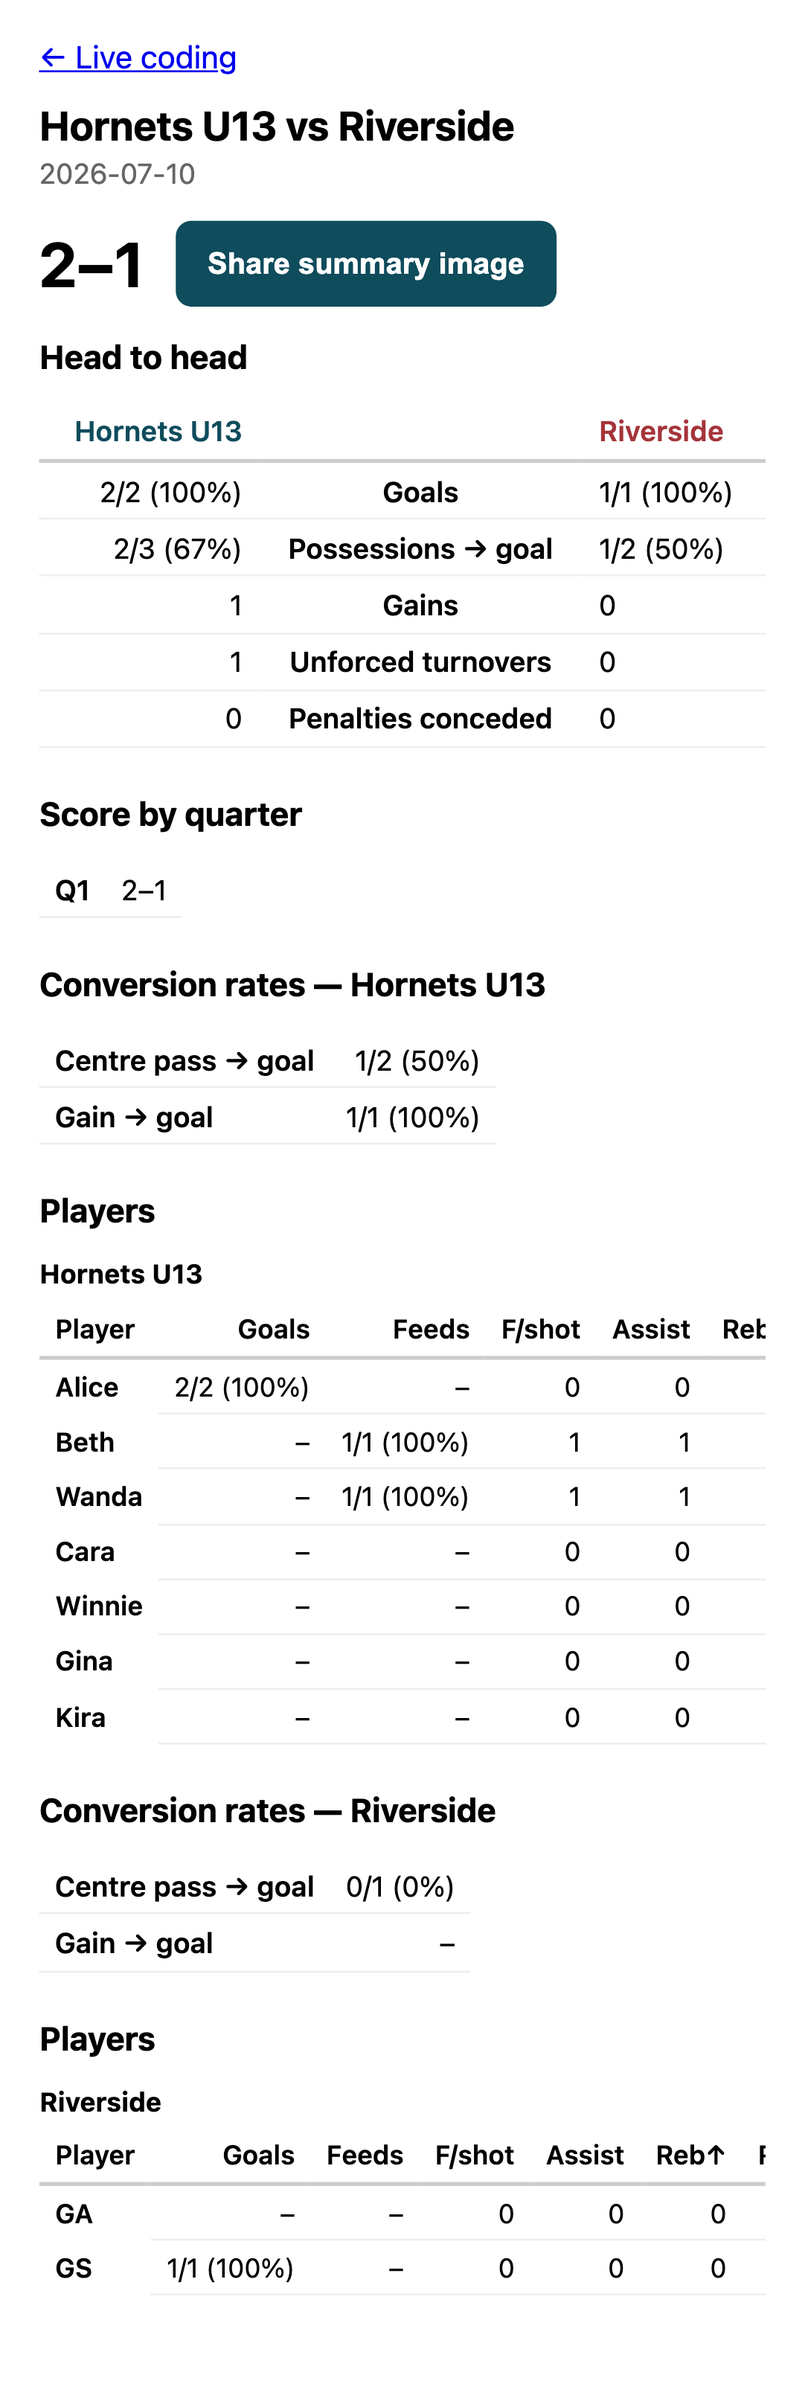
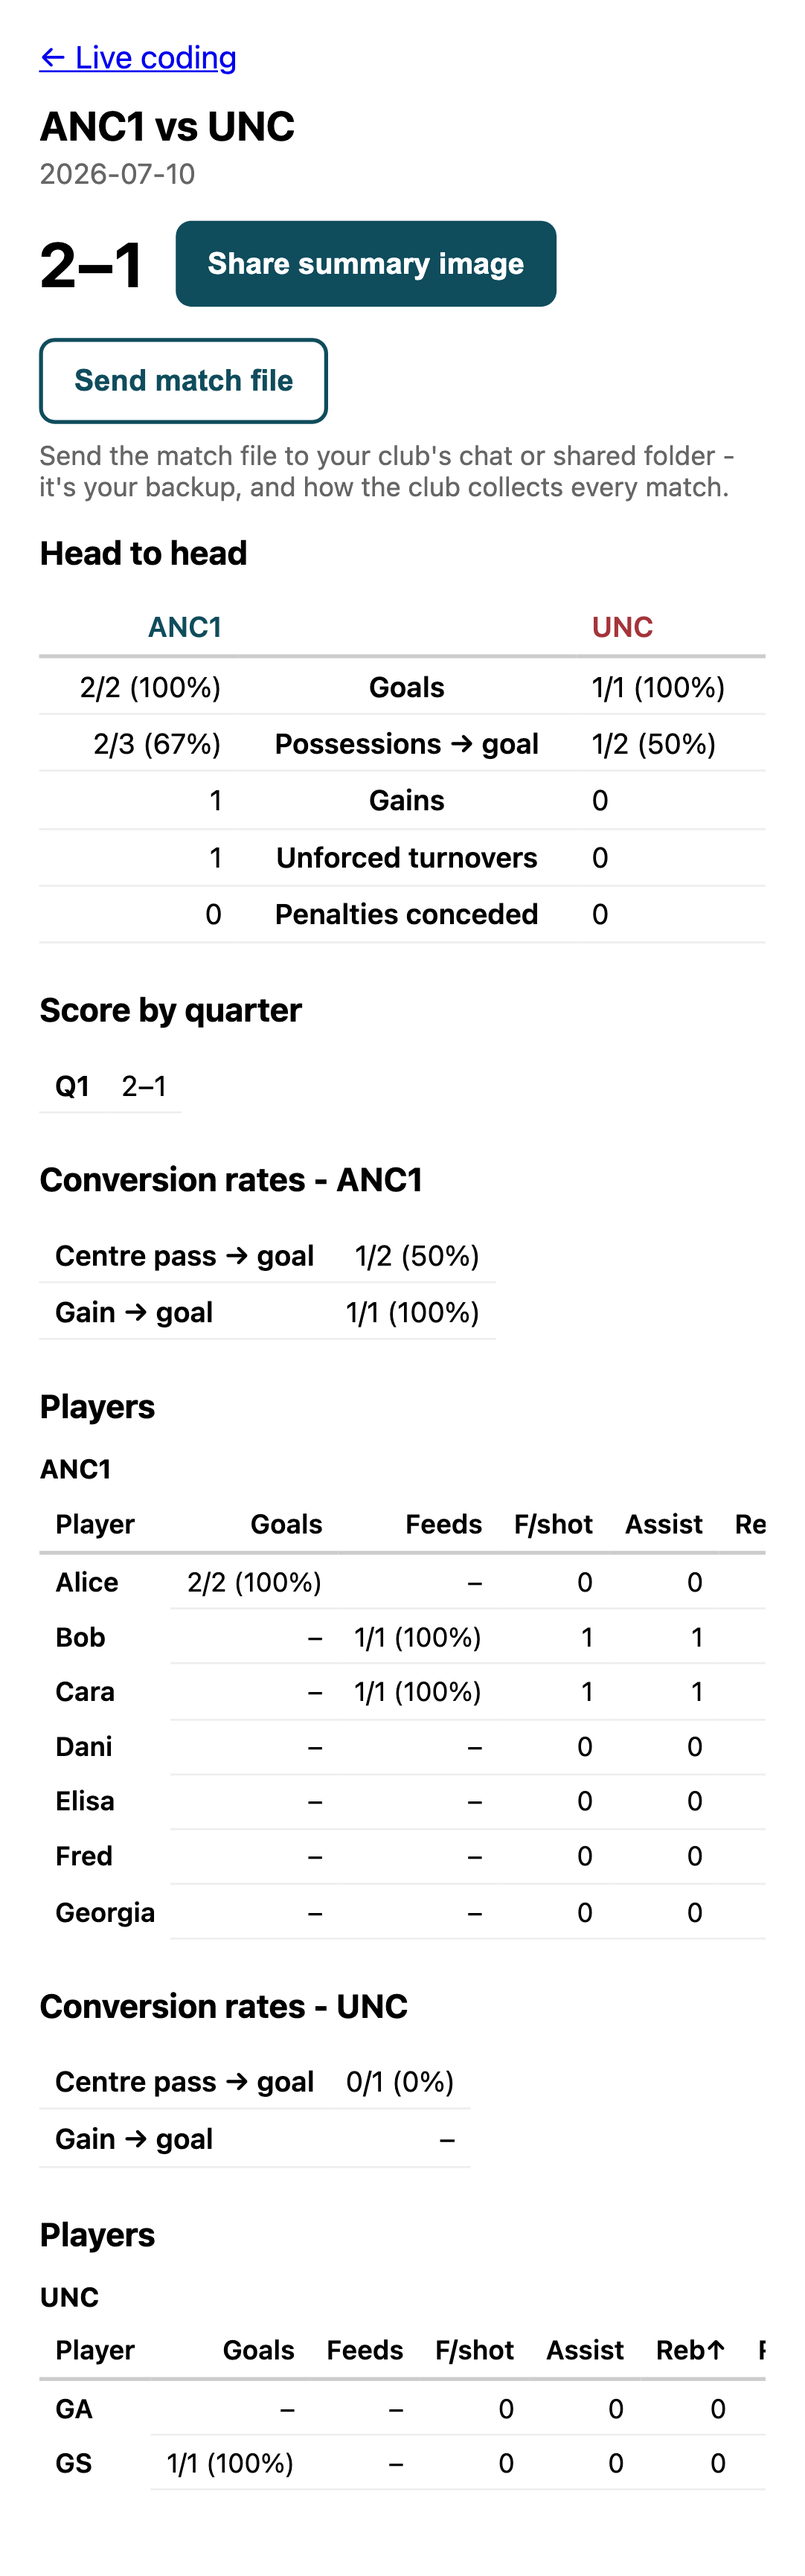
Update quickstart guide

diff --git a/web/tests/screenshots.spec.ts b/web/tests/screenshots.spec.ts
@@ -10,12 +10,12 @@ const IMG = "../docs/img";
 
 const ROSTER: Record<string, string> = {
   GS: "Alice",
-  GA: "Beth",
-  WA: "Wanda",
-  C: "Cara",
-  WD: "Winnie",
-  GD: "Gina",
-  GK: "Kira",
+  GA: "Bob",
+  WA: "Cara",
+  C: "Dani",
+  WD: "Elisa",
+  GD: "Fred",
+  GK: "Georgia",
 };
 
 async function code(page: Page, position: string, action: string) {
@@ -25,8 +25,8 @@ async function code(page: Page, position: string, action: string) {
 
 test("capture the quickstart screens", async ({ page }) => {
   await page.goto("/centrepass/");
-  await page.getByLabel("Your team").fill("Hornets U13");
-  await page.getByLabel("Opposition").fill("Riverside");
+  await page.getByLabel("Your team").fill("ANC1");
+  await page.getByLabel("Opposition").fill("UNC");
   await page.getByLabel("Date").fill("2026-07-10");
   await page.screenshot({ path: `${IMG}/01-create-match.png` });
 
@@ -61,4 +61,13 @@ test("capture the quickstart screens", async ({ page }) => {
   await page.getByTestId("open-stats").click();
   await expect(page.getByTestId("final-score")).toHaveText("2–1");
   await page.screenshot({ path: `${IMG}/05-stats.png`, fullPage: true });
+
+  await page.goto("/centrepass/#/");
+  await page.getByTestId("new-collection-name").fill("Autumn 2026");
+  await page.getByTestId("create-collection").click();
+  await page.getByRole("link", { name: "Autumn 2026" }).click();
+  await page.getByText("Name and matches").click();
+  await page.locator('[data-testid^="pick-match-"]').first().click();
+  await expect(page.getByTestId("collection-table-0")).toBeVisible();
+  await page.screenshot({ path: `${IMG}/06-collection.png`, fullPage: true });
 });

diff --git a/docs/quickstart.md b/docs/quickstart.md
@@ -1,97 +1,105 @@
 # CentrePass quickstart
 
-A five-minute guide to coding your first match. CentrePass runs entirely on your
-phone - no account, no install, works with no signal at the courtside.
+This is a five-minute guide to coding your first match.
 
-## Open it and keep it
+## Put it on your home screen
 
-Open the app link in your phone's browser, then **Add to Home Screen**. It now
-launches like any app and works fully offline. Everything you record is stored
-in that browser on your device - a different browser (or the home-screen app
-versus the browser tab) has its own separate list. Use **Export** / **Import**
-to move matches between them.
+Open https://louispt1.github.io/centrepass/ in Safari (iPhone) or Chrome
+(Android), then **Share → Add to Home Screen** (Chrome: **⋮ → Add to Home
+screen**). It then opens like any other app and works fully offline.
+
+Note: your matches live only in that browser on that phone.
+Back up your match files somewhere safe (see [Share it](#5-share-it))
+so a cleared browser doesn't mean you lose all your data.
 
 ## 1. Create the match
 
-Tap **New match**, enter both teams' names and the date.
+Under **New match**, enter both team names and the date, then tap **Create match**.
+Entering names consistently will let you aggregate stats under that team.
 
 ![Creating a match](img/01-create-match.png)
 
 ## 2. Enter your roster
 
-Put a player's name (or number) against each position. The other team's roster
-is optional - any position left blank reports its stats under the position
-(GS, GA, …). You can substitute players later from the **Roster / Sub** button during the match; playing time is
-worked out from when each change happens.
+Put a name under each position. It's optional, but it's what lets
+a [collection](#6-collections-season-stats) add up each player's stats across
+matches, so spell names the same way every week. Subs happen mid-match from
+**Roster / Sub**, and playing time is worked based on when you enter the sub.
 
 ![Entering the roster](img/02-roster.png)
 
 ## 3. Code the match
 
-This is the screen you'll use courtside. You code **both teams**, and the app
-keeps track of who has the ball: the banner under the score says which team is
-in possession, and every action button names (and is outlined in the colour of)
-the team a tap will be recorded for.
+You code **both teams**, and the app keeps track of who has the ball. The
+banner under the score shows who's in possession, and each action button is
+labelled (and outlined) with the team an input will count for.
 
-At the first centre pass the banner asks **who has the centre pass** - pick the
-team that won the toss. After that, possession follows the play: a turnover
-hands the ball over, a **Gain** or an **Infringement** is always by the team
-*without* the ball, a GD/GK **Rebound** belongs to the defenders, and after each
-goal (and each quarter) the centre pass alternates. If the app ever has it
-wrong, tap **Flip ⇄** - it swaps the team for your next tap only.
+At the first centre pass, pick the team that won the toss. From there
+possession follows the play: turnovers hand the ball over, centre passes
+alternate after goals and quarters, and so on. If it ever gets it wrong, tap
+**Flip ⇄**, which swaps the team for your next tap only.
 
-To record something a player did:
+Every event is two taps:
 
-1. Tap the **position** (GS, GA, … or TEAM if you can't attribute it).
-2. Tap the **action** (Goal / Shot, Feed, Gain, …).
+1. The **position** (GS, GA, … or TEAM if you're not sure).
+2. The **action** (Goal / Shot, Feed, Intercept, …).
 
-That's two taps per event. A few extras:
+Then, if needed, straight after:
 
-- **Failed ✕** - tap straight after the action for a missed shot or an
-  incomplete feed (e.g. GA → Goal / Shot → Failed ✕). Tap again to undo it.
-- **Flag ⚑** - tap straight after an event to mark it for review later.
+- **Failed ✕** for a missed shot or a feed that didn't land. Tap again to undo.
+- **Flag ⚑** to mark the event to check later.
+- **Undo** removes the last thing you recorded.
+- **End Q1 / Q2 / Q3** marks the end of each quarter.
 
-Failed and Flag always apply to the last event you recorded.
-- **Undo** - removes the last thing you recorded.
-- **End Q1 / Q2 / Q3** - marks the end of each quarter (the fourth is full time).
-- **Reference** - a reminder of every position, action, and modifier, without
-  losing your place.
-
-The strip under the score shows your last few events, each in its team's
-colour, so you can spot-check.
+The strip under the score shows your last few events in team colours, so you
+can spot a mistake and undo.
 
 ![Live coding](img/03-live-coding.png)
 
-Not sure what a code means? Tap **Reference** any time - it opens over the
-coding screen and closes straight back to it, exactly where you were.
+**Reference** opens over the coding screen and closes straight back to it, outlining
+the definitions of each action.
 
 ![The in-app reference](img/04-reference.png)
 
 ## 4. Read the stats
 
-Tap **Stats** for the full picture: a head-to-head of both teams (shooting,
-possessions converted, gains, turnovers, penalties), the final score and
-per-quarter scores, each player's goals, feeds, assists, rebounds, turnovers and gains, and the
-team's centre-pass and gain conversion rates. Everything is derived from what
-you coded - nothing is entered twice.
+Tap **Stats** for the full picture: head-to-head, score by quarter, conversion
+rates, and a line for every player. It's all worked out from what you coded.
 
 ![Post-match stats](img/05-stats.png)
 
 ## 5. Share it
 
-- **Share summary image** on the stats screen makes a picture of the headline
-  numbers, ready to drop into the club chat.
-- **Send match file** (on the stats screen, where tapping **Full time** takes
-  you) sends the whole match as a file. Send it to your club's chat or shared
-  folder. It's your backup, and it's how the club collects every match.
-  **Export** on the match list does the same. A match marked **Not sent** on
-  the list has changes the club hasn't had yet.
-- **Import** brings a match file back in exactly. If you already have that
-  match (say, a corrected copy was re-sent), you're asked before your copy is
-  replaced.
+- **Share summary image** makes a picture of the headline numbers.
+- **Send match file** sends the whole match. It's your backup, and how you can centralise matches coded by different people.
+  **Export** on the match list does the same, and a match marked **Not sent**
+  has changes that aren't backed up yet.
+- **Import** brings a match file back in. If you already have that match
+  (say, someone sent a corrected copy), you're asked before yours is replaced.
+
+## 6. Collections (season stats)
+
+A collection groups matches, like a season or a tournament, and adds up each
+player's stats across them, with games played.
+
+On the home screen, type a name under **Collections** and tap **Create**. Open
+it, tap **Name and matches**, and tick the matches to include. You can also add
+a match from the match list via its **Collections** button.
+
+If a player's name was spelled two ways ("Ali" and "Alice"), tap the name in
+the table and merge it into the right one. Only the collection's totals change;
+the matches themselves stay as coded.
+
+![A collection](img/06-collection.png)
+
+Collections live on your phone only. To share a season, **Send match files**
+sends every match in the collection; whoever receives them imports the matches and builds
+their own collection.
 
 ## Faster input: Shorthand
 
-If you're a quick typist you can paste a whole match as compact text instead of
-tapping. See the [Shorthand reference](shorthand.md). Tap coding and Shorthand
-produce the very same event log.
+Quick typist? You can paste a whole match as compact text instead of tapping.
+See the [Shorthand reference](shorthand.md); it produces exactly the same match
+as tap coding.
+
+Found a bug or got an idea? I'd love to hear it.
